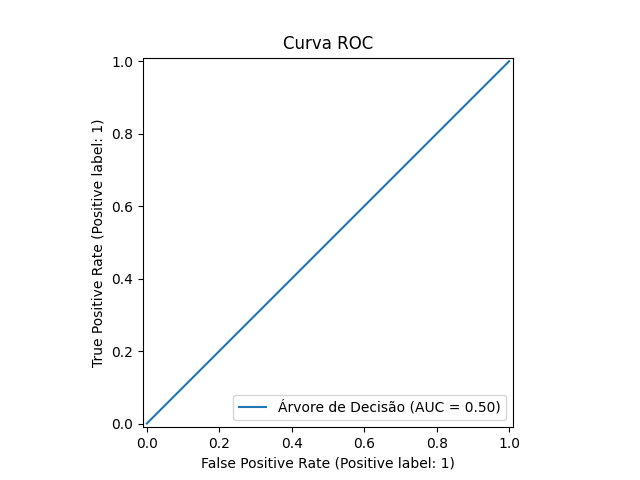
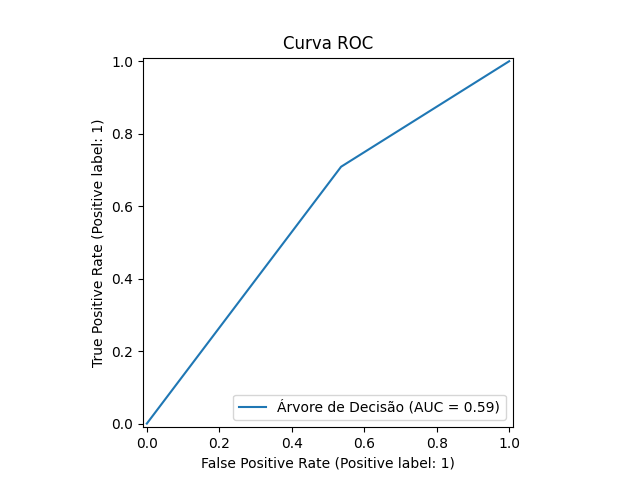
feat: criado uma pipeline, dividindo dados balanceados e modelo para entao aplicar o valização cruzada

diff --git a/TrainerWorkflow.py b/TrainerWorkflow.py
@@ -14,30 +14,44 @@ class TrainerWorkflow:
         
         # Dividir os dados em treino, validação e teste
         x_treino, x_val, x_teste, y_treino, y_val, y_teste = self.data_loader.split_data(x, y)
-
+        
+        x_balanceado, y_balanceado = self.data_loader.undersample_data(x, y)
+        
         # Treinar o modelo
         model = self.model_builder.train_model(x_treino, y_treino)
+        model_undersample = self.model_builder.train_model_undersample(x_balanceado, y_balanceado)        
+        y_previsto_under = model_undersample.predict(x_teste)
+
         
         # Cross-validation para avaliar o modelo
         cv_results = self.model_builder.cross_validate_model(x, y)
         cv_recall_results = self.model_builder.cross_validate_recall_model(x,y)
+        cv_recall_results_balanceado = self.model_builder.cross_validate_recall_model_balanceado(x, y)
+        cv_recall_results_balanceado_undersample = self.model_builder.cross_validate_recall_model_balanceado_undersample(x, y)
 
-        self.intervalo_conf(cv_results, "geral")
-        self.intervalo_conf(cv_recall_results, "scoring_recall")
+        # self.intervalo_conf(cv_results, "geral")
+        self.intervalo_conf(cv_recall_results, "scoring recall")
+        self.intervalo_conf(cv_recall_results_balanceado, "scoring recall balanceado")
+        self.intervalo_conf(cv_recall_results_balanceado_undersample, "scoring recall balanceado under")
+        
 
         
         # Avaliar o modelo nos dados de treino e validação
         acc_train = model.score(x_treino, y_treino)
         acc_val, f1_val, accuracy_score_val, precision_val, recall_val, roc_auc = self.evaluator.evaluate_model(model, x_val, y_val)
+        
+
+        
+        
 
         # Resultados
-        print(f'Acurácia de treino: {acc_train}')
-        print(f'Acurácia de validação: {acc_val}')
-        print(f'F1 Score: {f1_val}')
-        print(f'Acurácia Score: {accuracy_score_val}')
-        print(f'Precisão: {precision_val}')
-        print(f'Recall: {recall_val}')
-        print(f'AUC: {roc_auc}')
+        print(f'\n\n Acurácia de treino: {acc_train}\n\n')
+        print(f'Acurácia de validação: {acc_val}\n\n')
+        # print(f'F1 Score: {f1_val}\n\n')
+        print(f'Acurácia Score: {accuracy_score_val}\n\n')
+        print(f'Precisão: {precision_val}\n\n')
+        print(f'Recall: {recall_val}\n\n')
+        # print(f'AUC: {roc_auc}\n\n')
 
         # Predição e binarização para métricas adicionais
         y_pred = model.predict(x_val)
@@ -47,6 +61,10 @@ class TrainerWorkflow:
         # Plotar a matriz de confusão e o relatório de classificação
         self.evaluator.plot_confusion_matrix(y_val, y_pred)
         self.evaluator.print_classification_report(y_val, y_pred)
+        
+        # plotar matriz de teste do modelo
+        self.evaluator.print_classification_report(y_teste, y_previsto_under)
+        self.evaluator.print_confusion_matriz_report(y_teste, y_previsto_under)
 
         # Plotar a curva ROC
         self.evaluator.plot_roc(y_val, y_pred)
@@ -54,5 +72,5 @@ class TrainerWorkflow:
     def intervalo_conf(self,resultados, texto: str):
         media = resultados['test_score'].mean()
         desvio_padrao = resultados['test_score'].std()
-        print(f'Intervalo de confiança {texto}: [{media - 2*desvio_padrao}, {min(media + 2*desvio_padrao, 1)}]')
+        print(f'Intervalo de confiança {texto}: [{media - 2*desvio_padrao}, {min(media + 2*desvio_padrao, 1)}]\n\n')
 

diff --git a/ModelBuilder.py b/ModelBuilder.py
@@ -1,14 +1,25 @@
 from sklearn.tree import DecisionTreeClassifier
 from sklearn.model_selection import cross_validate, KFold, StratifiedKFold
+from imblearn.pipeline import Pipeline as imbpipeline
+from imblearn.over_sampling import SMOTE
+from imblearn.under_sampling import NearMiss
+
 
 class ModelBuilder:
-    def __init__(self, max_depth=5):#, min_samples_split=5, min_samples_leaf=5
+    def __init__(self, max_depth=10):#, min_samples_split=5, min_samples_leaf=5
         self.model = DecisionTreeClassifier(max_depth=max_depth) #, min_samples_split=min_samples_split, min_samples_leaf=min_samples_leaf
         self.kf = KFold(n_splits = 5, shuffle = True, random_state = 5)
         self.skf = StratifiedKFold(n_splits = 5, shuffle = True, random_state = 5)
+        self.pipeline = imbpipeline([('oversample', SMOTE()), ('arvore', self.model)])
+        self.pipeline_undersample = imbpipeline([('undersample',NearMiss(version=3)), ('arvore', self.model)])
+
 
     def train_model(self, x_train, y_train):
         self.model.fit(x_train, y_train)
+        return self.model
+    
+    def train_model_undersample(self, x_balanceado, y_balanceado):
+        self.model.fit(x_balanceado, y_balanceado)
         return self.model
     
     def cross_validate_model(self, x, y ):
@@ -18,6 +29,15 @@ class ModelBuilder:
     def cross_validate_recall_model(self, x, y ):
         cv_resultados = cross_validate(self.model, x, y, cv = self.skf, scoring='recall')
         return cv_resultados
+    
+    def cross_validate_recall_model_balanceado(self, x, y ):
+        cv_resultados = cross_validate(self.pipeline, x, y, cv = self.skf, scoring='recall')
+        return cv_resultados
+
+    def cross_validate_recall_model_balanceado_undersample(self, x, y ):
+        cv_resultados = cross_validate(self.pipeline_undersample, x, y, cv = self.skf, scoring='recall')
+        return cv_resultados
+
 
 
     def get_model(self):

diff --git a/DataLoader.py b/DataLoader.py
@@ -1,10 +1,15 @@
 import pandas as pd
 from sklearn.model_selection import train_test_split
+from imblearn.over_sampling import SMOTE
+from imblearn.under_sampling import NearMiss
+
 
 class DataLoader:
     def __init__(self, filepath):
         self.filepath = filepath
         self.data = None
+        self.oversample = SMOTE()
+        self.undersample = NearMiss(version=3)
     
     def load_data(self):
         self.data = pd.read_csv(self.filepath)
@@ -23,3 +28,26 @@ class DataLoader:
             )
         
         return x_treino, x_val, x_teste, y_treino, y_val, y_teste
+
+    def oversample_data(self, x, y):
+        x_balanceado, y_balanceado = self.oversample.fit_resample(x, y)
+        balance = y_balanceado.value_counts(normalize=True)
+        
+        if balance.min() != balance.max():
+            raise ValueError("Os dados não estão perfeitamente equilibrados.")
+            
+        print("Os dados estão equilibrados.")
+        
+        return x_balanceado, y_balanceado
+    
+    def undersample_data(self, x, y):
+        x_balanceado, y_balanceado = self.undersample.fit_resample(x, y)
+        # balance = y_balanceado.value_counts(normalize=True)
+        
+        # if balance.min() != balance.max():
+        #     raise ValueError("Os dados não estão perfeitamente equilibrados.")
+            
+        # print("Os dados estão equilibrados.")
+        
+        return x_balanceado, y_balanceado
+        

diff --git a/ModelEvaluator.py b/ModelEvaluator.py
@@ -10,6 +10,8 @@ from sklearn.metrics import (
     classification_report
 )
 import matplotlib.pyplot as plt
+from sklearn.metrics import ConfusionMatrixDisplay
+
 
 
 class ModelEvaluator:
@@ -23,10 +25,11 @@ class ModelEvaluator:
         recall = recall_score(y_val, y_pred)
         
         roc_auc = roc_auc_score(y_val, y_pred)
-        
-        
 
         return acc, f1, acc_score, precision, recall, roc_auc
+    
+    
+    
 
     @staticmethod
     def plot_confusion_matrix(y_val, y_pred, filename="graficos/matriz_confusao.png"):
@@ -67,6 +70,15 @@ class ModelEvaluator:
     def print_classification_report(y_val, y_pred):
         report = classification_report(y_val, y_pred)
         print(report)
+        
+    @staticmethod
+    def print_confusion_matriz_report(y_teste, y_pred_under, filename="graficos/matrix_confusao_under.png"):
+        ConfusionMatrixDisplay.from_predictions(y_teste, y_pred_under)
+        
+        plt.title("Matriz de Confusão Under")           
+        plt.savefig(filename)
+        plt.close()  
+        
         
 
         

diff --git a/Trainer.py b/Trainer.py
@@ -7,9 +7,21 @@ class Trainer:
 
     def train_model(self, x_train, y_train):
         return self.model_builder.train_model(x_train, y_train)
+    
+    
+    def train_model_undersample(self, x_balanceado, y_balanceado):
+        return self.model_builder.train_model_undersample(x_balanceado, y_balanceado)
+    
 
     def cross_validate_model(self, x, y):
         return self.model_builder.cross_validate_model(x, y)
     
     def cross_validate_recall_model(self, x, y ):
         return self.model_builder.cross_validate_recall_model(x, y)
+    
+    def cross_validate_recall_model_balanceado(self, x, y  ):
+        return self.model_builder.cross_validate_recall_model_balanceado(x, y)
+
+   
+    def cross_validate_recall_model_balanceado_undersample(self, x, y):
+        return self.model_builder.cross_validate_recall_model_balanceado_undersample(x, y)
